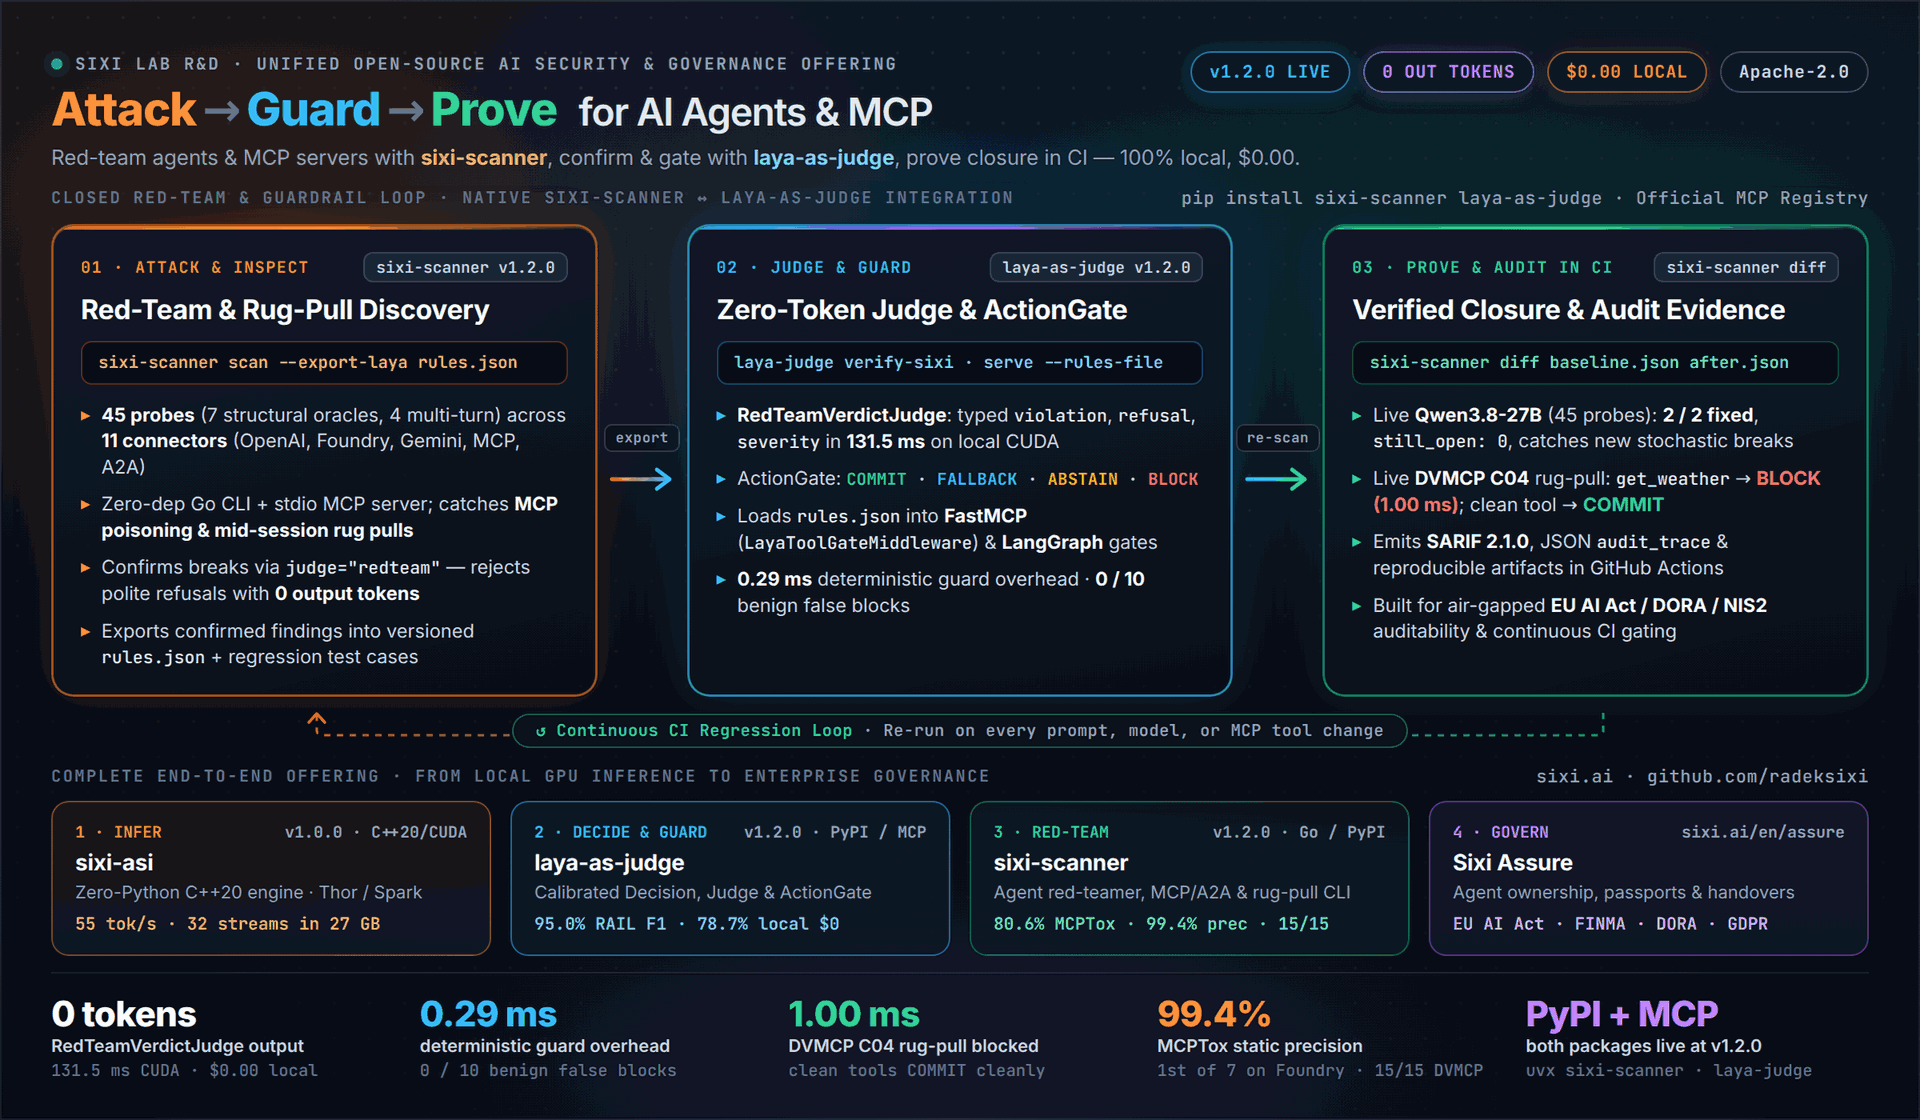
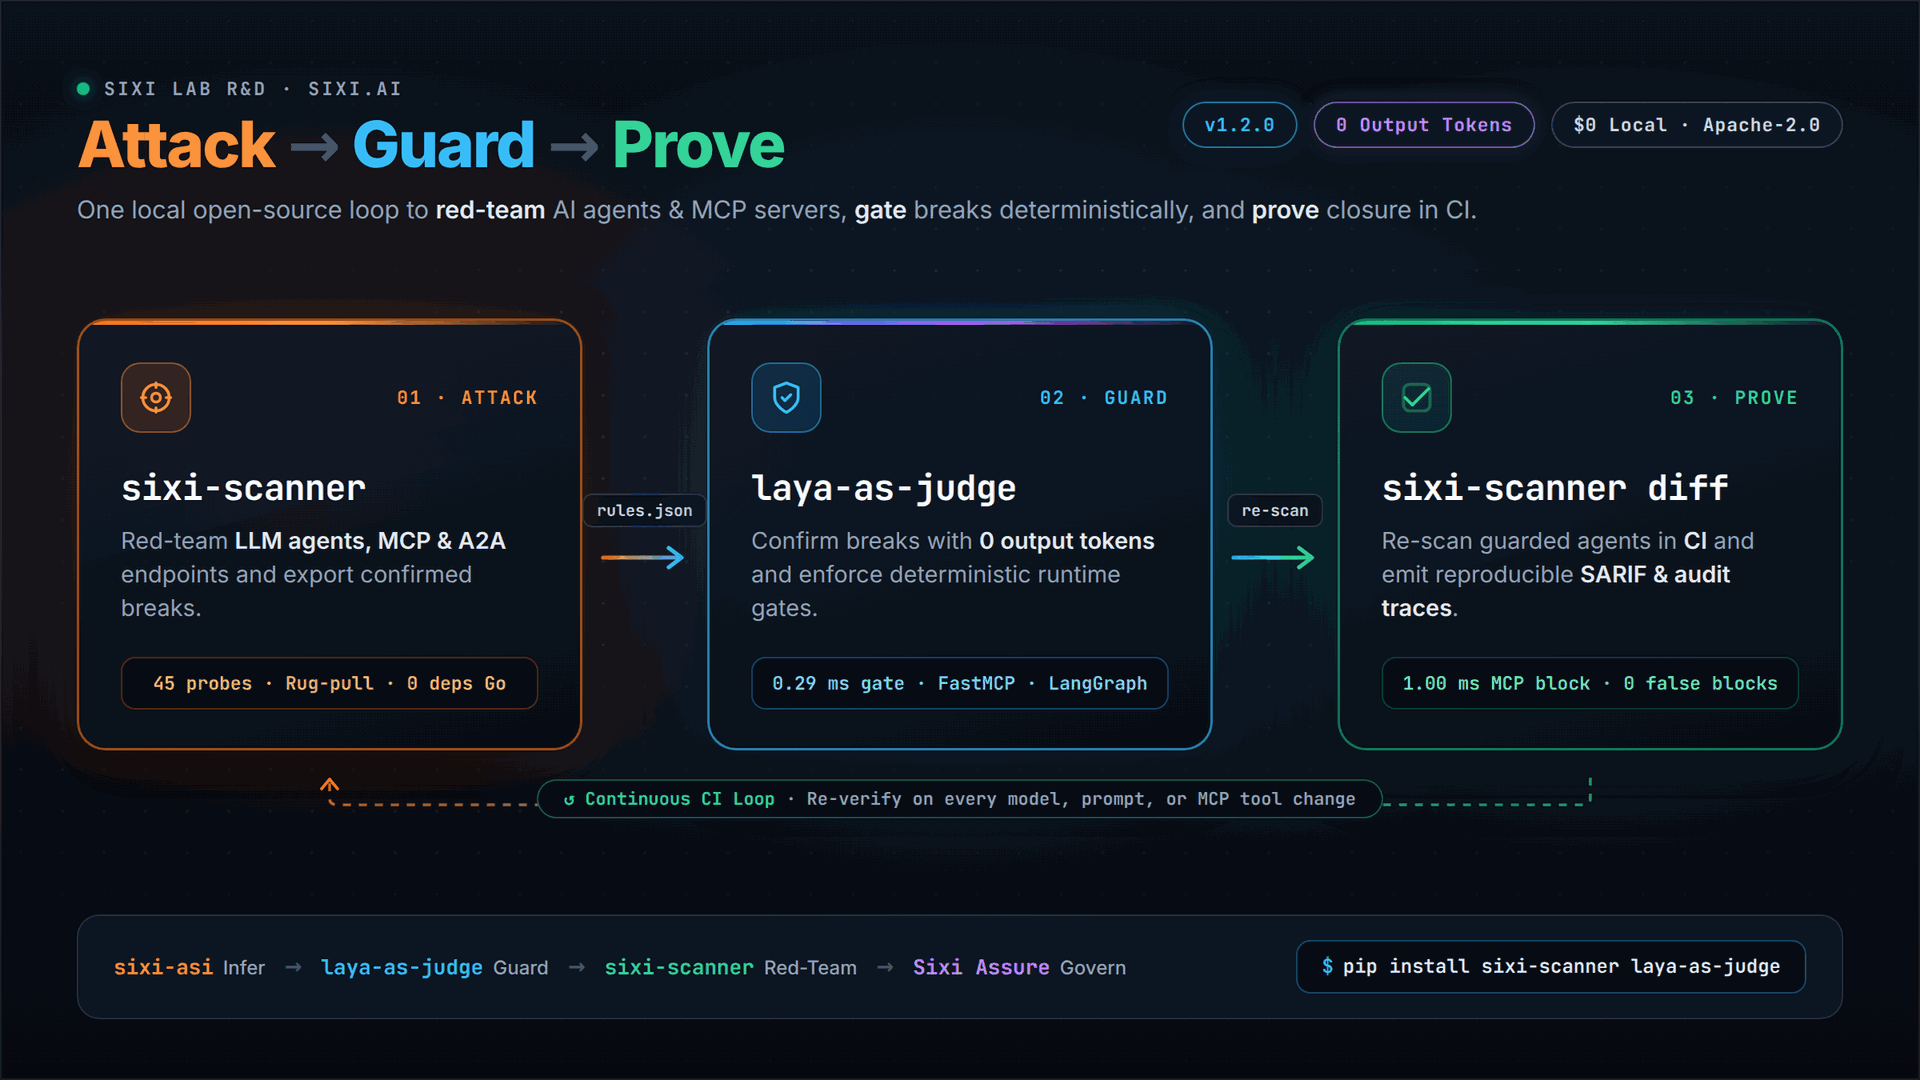
docs: simplify dark offering hero graphic, declutter README above the fold, and fix conflict marker

diff --git a/README.md b/README.md
@@ -3,69 +3,59 @@
 # Laya-as-a-Judge v1.2.0 ⚡⚖
 
 [![PyPI](https://img.shields.io/pypi/v/laya-as-judge.svg?color=0ea5e9)](https://pypi.org/project/laya-as-judge/)
-[![Version](https://img.shields.io/badge/Release-v1.2.0_Stable-10b981.svg)](CHANGELOG.md)
-[![License](https://img.shields.io/badge/License-Apache_2.0-blue.svg)](LICENSE)
-[![Python 3.10+](https://img.shields.io/badge/Python-3.10%2B-brightgreen.svg)](https://www.python.org/)
-[![HF Space](https://img.shields.io/badge/🤗_Live_Demo-Hugging_Face_Space-ffd21e.svg)](https://huggingface.co/spaces/rbai86/laya-as-judge-demo)
-[![Output Tokens](https://img.shields.io/badge/Output_Tokens-0-orange.svg)](#the-logic-behind-it-architecture--math)
-[![Local 16GB](https://img.shields.io/badge/Local_1x16GB_%240-78.7%25_avg-0ea5e9.svg)](#100-local-text-only-api-decision-judge--hybrid-the-judged-decision--v070)
-[![RAIL Guard](https://img.shields.io/badge/RAIL_Guard-95.0%25_F1_%7C_94.6%25_Tool_Intercept_(392%2F392)-10b981.svg)](#whats-new-in-v110-ecosystem-drop-ins-fastmcp--langgraph-decisionbench--rail-guard)
-[![Top-1 ECE](https://img.shields.io/badge/Top--1_ECE-0.0234--0.0287-0284c7.svg)](#decision-benchmark-suite-9-benchmark-table-top-1-ece--total-price)
+[![Release](https://img.shields.io/badge/Release-v1.2.0-10b981.svg)](CHANGELOG.md)
 [![CI](https://github.com/radeksixi/laya-as-judge/actions/workflows/ci.yml/badge.svg)](https://github.com/radeksixi/laya-as-judge/actions)
-[![Benchmarks](https://img.shields.io/badge/Laya--Omega_vs_Gemini_Dec_1-11%2F11_Wins-10b981.svg)](#decision-benchmark-suite-9-benchmark-table-top-1-ece--total-price)
-[![Ecosystem: sixi.ai](https://img.shields.io/badge/Used_with-sixi.ai_%2F_Assure-0ea5e9.svg)](https://sixi.ai/en/assure/)
+[![HF Space](https://img.shields.io/badge/🤗_Live_Demo-HF_Space-ffd21e.svg)](https://huggingface.co/spaces/rbai86/laya-as-judge-demo)
+[![License](https://img.shields.io/badge/License-Apache_2.0-blue.svg)](LICENSE)
 
 [![Attack → Guard → Prove — Unified Open-Source AI Security & Governance Offering (sixi-scanner v1.2.0 + laya-as-judge v1.2.0)](assets/sixi-closed-loop-offering-dark.png)](https://radeksixi.github.io/closed-loop-redteam-guard-sixi-scanner-laya-1-2/)
 
-> **One open-source, zero-output-token Decision, Judge & Governance API — built for both solo developers (`$0` on a 6 GB edge or single 16 GB GPU) and air-gapped regulated enterprises (EU AI Act / DORA / NIS2 / [Sixi Assure](https://sixi.ai/en/assure/)).**
->
-> **Try live (CPU):** [🤗 Hugging Face Space Demo](https://huggingface.co/spaces/rbai86/laya-as-judge-demo) · **Install:** [`pip install laya-as-judge`](https://pypi.org/project/laya-as-judge/) · **Read the write-ups:** [v1.2.0 — Closed Attack → Guard → Prove Loop (`sixi-scanner` ↔ `laya-as-judge`)](https://radeksixi.github.io/closed-loop-redteam-guard-sixi-scanner-laya-1-2/) · [v1.1.0 — PyPI, 512 RAIL Guard Tests, FastMCP & LangGraph](https://radeksixi.github.io/laya-as-judge-1-1-pypi-rail-guard-fastmcp-langgraph/) · [v1.0.0 — Solo & Enterprise](https://radeksixi.github.io/laya-as-judge-1-0-decision-judge-governance-for-everyone-and-enterprise/)
+**Zero-output-token Decision, Judge & 4-way `ActionGate` API (`COMMIT / FALLBACK / ABSTAIN / BLOCK`)** — built for both solo `$0` local GPUs and air-gapped enterprise AI agents ([Sixi Assure](https://sixi.ai/en/assure/)).
+
+[Try live on HF Space](https://huggingface.co/spaces/rbai86/laya-as-judge-demo) · [PyPI (`pip install laya-as-judge`)](https://pypi.org/project/laya-as-judge/) · [v1.2.0 Closed-Loop Write-Up](https://radeksixi.github.io/closed-loop-redteam-guard-sixi-scanner-laya-1-2/) · [RAIL Guard Benchmarks](https://radeksixi.github.io/laya-as-judge-1-1-pypi-rail-guard-fastmcp-langgraph/)
+
+```bash
+# Install & run locally in 10 seconds (0 GB VRAM emulator or local GPU)
+pip install "laya-as-judge[server]"
+laya-judge serve --profile emulator --port 8000
+
+# Closed Attack -> Guard -> Prove loop with sixi-scanner v1.2.0
+sixi-scanner scan --url http://agent/v1/chat/completions --confirm-url http://127.0.0.1:8000/v1/judge --export-laya rules.json
+laya-judge verify-sixi rules.json
+```
+
+### Key Highlights (`v1.2.0`)
+
+- **Closed Red-Team Loop (`sixi-scanner` ↔ `laya-as-judge`):** `RedTeamVerdictJudge` (`judge="redteam"`, **0 output tokens**, `131.5 ms` CUDA) confirms breaks; `load_sixi_scanner_rules` / `verify-sixi` / `--rules-file` enforce them deterministically (**`0.29 ms`** guard overhead, **`1.00 ms`** DVMCP rug-pull block, `0/10` benign false blocks).
+- **Drop-In Agent Middleware & APIs:** 5-line **FastMCP** (`LayaToolGateMiddleware`) & **LangGraph** (`LayaJudgedGateNode`) gates, stdio MCP server (`uvx laya-as-judge mcp`), OpenAI `/v1/moderations`, Cohere/vLLM `/v1/rerank`, and GitHub Action.
+- **Measured Accuracy (`$0` local):** **95.0% F1** on RAIL Guard Pool A (`94.6%` Pool B intercept across `392/392`), **78.7%** on 1× 16 GB GPU (`12/12` red-team, `0% FP`), and **11/11** wins vs. Gemini Decision 1 on `Laya-Omega`.
+
+<details>
+<summary><strong>Executive summary (CTO / CISO / Engineering) &amp; full v1.2.0 / v1.1.0 release notes</strong></summary>
 
 ### Why CTOs, CISOs & AI Engineering Leads Deploy It
 
-- **For CISOs & AI Risk (Fail-Closed Tool-Call Firewall):** Air-gapped on-prem execution (`$0` cloud egress, FINMA / FADP / GDPR / DORA / EU AI Act ready), deterministic anti-spoofing & `sixi-scanner` regression rules (`0.29 ms` guard overhead, `1.00 ms` MCP rug-pull block), calibrated uncertainty (`ECE 0.029`, explicit `ABSTAIN`), and full JSON `audit_trace`.
+- **For CISOs & AI Risk (Fail-Closed Tool-Call Firewall):** Air-gapped on-prem execution (`$0` cloud egress, FINMA / FADP / GDPR / DORA / EU AI Act auditability), deterministic anti-spoofing & `sixi-scanner` regression rules (`0.29 ms` guard overhead, `1.00 ms` MCP rug-pull block), calibrated uncertainty (`ECE 0.029`, explicit `ABSTAIN`), and full JSON `audit_trace`.
 - **For CTOs & Platform Teams (Drop-In, Zero Lock-In):** Swap URLs without rewriting your stack — drop-in OpenAI `/v1/moderations`, Cohere/vLLM `/v1/rerank`, `/v1/decisions/batch` (`7.97×`), Prometheus `/metrics`, `6.7 ms` latency with `0` output tokens, Apache-2.0.
 - **For AI Engineering Leads (5-Line Agent Integration):** Native **FastMCP** (`LayaToolGateMiddleware`) and **LangGraph** (`LayaJudgedGateNode`) middleware, stdio MCP server (`uvx laya-as-judge mcp`), A2A v1.0 Agent Card, GitHub Action, and a zero-setup browser demo on [Hugging Face Space](https://huggingface.co/spaces/rbai86/laya-as-judge-demo).
 
----
-
-## What's New in `v1.2.0` (Closed Attack → Guard → Prove Loop with `sixi-scanner`)
-
-Pair [`laya-as-judge`](https://pypi.org/project/laya-as-judge/) with [`sixi-scanner v1.2.0`](https://github.com/radeksixi/sixi-scanner) to close red-team findings automatically in CI — **zero output tokens, zero cloud judge bills**:
+### `v1.2.0` Closed-Loop Details
 
 | Addition | Interface / CLI | Live Measured Proof (`$0.00` Local GPU) |
 |---|---|---|
-| **`RedTeamVerdictJudge` Preset** | `POST /v1/judge` (`judge="redteam"`) · `RedTeamVerdictJudge` | 3 orthogonal typed criteria (`violation_confirmed`, `is_benign_refusal`, `severity`), **`0` output tokens**, **`131.5 ms`** avg on CUDA `Laya` — explicitly separates polite refusals from real breaks |
-| **Deterministic Guard Loader** | `load_sixi_scanner_rules("guard-rules.json")` · `laya-judge serve --rules-file` | Loads `sixi-scanner --export-laya` packs into `JudgedDecisionEngine`, FastMCP `LayaToolGateMiddleware`, & LangGraph `LayaJudgedGateNode` (**`0.29 ms`** check overhead, **`0/10`** benign false blocks) |
-| **CI Regression Verifier** | `laya-judge verify-sixi guard-rules.json` · `pack.verify_regression(...)` | Live `Qwen3.8-27B` (45 probes): **`2/2` findings closed (`still_open=0`)** on `sixi-scanner diff`; live DVMCP C04 rug-pull (`get_weather`): blocked in **`1.00 ms`** (`ActionGate.BLOCK`) while clean `get_system_time` commits (`ActionGate.COMMIT`) |
+| **`RedTeamVerdictJudge` Preset** | `POST /v1/judge` (`judge="redteam"`) · `RedTeamVerdictJudge` | 3 orthogonal typed criteria (`violation_confirmed`, `is_benign_refusal`, `severity`), **`0` output tokens**, **`131.5 ms`** avg on CUDA `Laya` |
+| **Deterministic Guard Loader** | `load_sixi_scanner_rules("rules.json")` · `laya-judge serve --rules-file` | Loads `sixi-scanner --export-laya` packs into `JudgedDecisionEngine`, FastMCP & LangGraph (**`0.29 ms`** overhead, **`0/10`** false blocks) |
+| **CI Regression Verifier** | `laya-judge verify-sixi rules.json` · `pack.verify_regression(...)` | Live `Qwen3.8-27B` (45 probes): **`2/2` fixed (`still_open=0`)** on `sixi-scanner diff`; DVMCP C04 rug-pull blocked in **`1.00 ms`** |
 
-```bash
-# 1. ATTACK: scan target, confirm with zero-token RedTeamVerdictJudge, export guard rules
-laya-judge serve --profile rtx-16gb --port 8000
-sixi-scanner scan --url http://agent/v1/chat/completions --stateful --context agent.json \
-  --confirm-url http://127.0.0.1:8000/v1/judge --out baseline.json --export-laya guard-rules.json
-
-# 2. GUARD: verify closure in CI & load rules into Laya server / FastMCP / LangGraph
-laya-judge verify-sixi guard-rules.json
-laya-judge serve --profile rtx-16gb --rules-file guard-rules.json --port 8000
-
-# 3. PROVE: re-scan guarded agent and diff honestly
-sixi-scanner scan --url http://agent/v1/chat/completions --stateful --out after.json
-sixi-scanner diff baseline.json after.json
-```
-
----
-
-## What's New in `v1.1.0` (PyPI, Ecosystem Drop-Ins, FastMCP & LangGraph, DecisionBench & RAIL Guard)
+### `v1.1.0` / `v1.1.1` Ecosystem Details
 
 | Addition | Interface / Endpoint | Measured Highlight |
 |---|---|---|
 | **PyPI & Zero-Setup HF Space** | [`pip install laya-as-judge`](https://pypi.org/project/laya-as-judge/) · [`rbai86/laya-as-judge-demo`](https://huggingface.co/spaces/rbai86/laya-as-judge-demo) | Official PyPI package (`[server]` extra, `uvx` ready) + zero-cold-start browser playground |
-| **OSS Ecosystem Drop-In APIs** | `POST /v1/decisions/batch`, `/v1/moderations` (OpenAI), `/v1/rerank` (Cohere/vLLM), `/v1/rank` (Best-of-N), `GET /metrics` (Prometheus), `get_engine("hf-decision")` | **`7.97×` batch speedup** (`32` items), **`6.7 ms`** `/v1/decisions` & **`18.2 ms`** `/v1/rank` on `Laya-Q8_0` (`+575 MiB` VRAM, `0` output tokens) |
-| **FastMCP & LangGraph Middleware** | `LayaToolGateMiddleware`, `@laya_tool_guard`, `make_decision_router`, `LayaJudgedGateNode`, `laya_gate_router` | Zero-bloat duck-typed integrations wiring 4-way `COMMIT / FALLBACK / ABSTAIN / BLOCK` into MCP tools & `StateGraph` nodes in 5 lines |
-| **DecisionBench Native Runner** | `laya-judge decision-bench` · `examples/decisionbench_laya_adapter.py` | 100% native `jev-compatible-systemone-http-v1` parity across `noul`, `choice`, `score` for [`Hanno-Labs/decision-bench`](https://github.com/Hanno-Labs/decision-bench) (`run-system-one-http`) |
-| **RAIL Guard Benchmark Harness** | `laya-judge rail-guard --source hf` (`responsible-ai-labs/rail-guard-benchmark`) | `$0.00` local GPU (512 real HF cases): **Pool A `95.0% F1` (`90.5%` adv catch, `0.0%` benign FPR on `Kev-4B`)** · **Full Pool B (`392/392` on `GLiDE-9B`): `94.6%` unsafe intercept, `89.9%` GAP caught, `70.7%` safe not hard-blocked** ([full per-domain write-up](https://radeksixi.github.io/laya-as-judge-1-1-pypi-rail-guard-fastmcp-langgraph/)) |
-| **MCP Stdio Server, A2A v1.0 & GitHub Action (`v1.1.1`)** | `uvx laya-as-judge mcp` (`server.json`) · `GET /.well-known/agent-card.json` & `POST /a2a/v1` · `uses: radeksixi/laya-as-judge@v1.1.1` (`action.yml`) | 5 native MCP tools (`laya_decide`, `laya_judge`, `laya_judged_decision`, `laya_moderate`, `laya_rerank`), A2A v1.0 Agent Card, and native CI gate (`--gate-judgement`, `--max-failing`, `--format sarif`) |
+| **OSS Ecosystem Drop-In APIs** | `/v1/decisions/batch`, `/v1/moderations`, `/v1/rerank`, `/v1/rank`, `/metrics` | **`7.97×` batch speedup** (`32` items), **`6.7 ms`** `/v1/decisions` & **`18.2 ms`** `/v1/rank` on `Laya-Q8_0` |
+| **FastMCP & LangGraph Middleware** | `LayaToolGateMiddleware`, `@laya_tool_guard`, `make_decision_router`, `LayaJudgedGateNode` | Zero-bloat duck-typed integrations wiring 4-way `COMMIT / FALLBACK / ABSTAIN / BLOCK` in 5 lines |
+| **DecisionBench & RAIL Guard** | `laya-judge decision-bench` · `laya-judge rail-guard --source hf` | **Pool A `95.0% F1`** (`0.0%` benign FPR) · **Full Pool B (`392/392`): `94.6%` unsafe intercept** |
+| **MCP Stdio, A2A v1.0 & GH Action** | `uvx laya-as-judge mcp` · `/.well-known/agent-card.json` · `action.yml` | 5 native MCP tools, A2A v1.0 Agent Card, and native CI SARIF gate |
 
 ```python
 # 5-line FastMCP tool guard + LangGraph conditional-edge router (0 output tokens)
@@ -78,17 +68,15 @@ graph.add_node("governance_gate", LayaJudgedGateNode(engine))
 graph.add_conditional_edges("governance_gate", laya_gate_router)  # commit / fallback / abstain / block
 ```
 
+</details>
+
 ---
 
 ## What Laya-as-a-Judge Offers (API & Core Features)
 
-<<<<<<< HEAD
-Software rarely needs an autoregressive LLM writing 250 tokens of prose just to route a ticket, block a prompt injection, score RAG faithfulness, or approve a tool call. **`laya-as-judge v1.2.0`** ships a **Python SDK**, **CLI (`laya-judge`)**, **MCP stdio server (`uvx laya-as-judge mcp`)**, **GitHub Action**, and **FastAPI HTTP server (`laya-judge serve`)** exposing **three unified, zero-output-token modes** plus drop-in ecosystem endpoints:
-=======
 ![Laya-as-a-Judge Platform Architecture — Decision API, Judge API, and Hybrid The Judged Decision](assets/laya-v1-platform-hero.png)
 
-Software rarely needs an autoregressive LLM writing 250 tokens of prose just to route a ticket, block a prompt injection, score RAG faithfulness, or approve a tool call. **`laya-as-judge v1.0.0`** ships a **Python SDK**, **CLI (`laya-judge`)**, and **FastAPI HTTP server (`laya-judge serve`)** exposing **three unified, zero-output-token modes**:
->>>>>>> 02629c5 (docs: add unified dark-style Attack -> Guard -> Prove offering hero graphic to README)
+Software rarely needs an autoregressive LLM writing 250 tokens of prose just to route a ticket, block a prompt injection, score RAG faithfulness, or approve a tool call. **`laya-as-judge v1.2.0`** ships a **Python SDK**, **CLI (`laya-judge`)**, **MCP stdio server (`uvx laya-as-judge mcp`)**, **GitHub Action**, and **FastAPI HTTP server (`laya-judge serve`)** exposing **three unified, zero-output-token modes** plus drop-in ecosystem endpoints:
 
 ### 1. Three Unified API Modes
 
